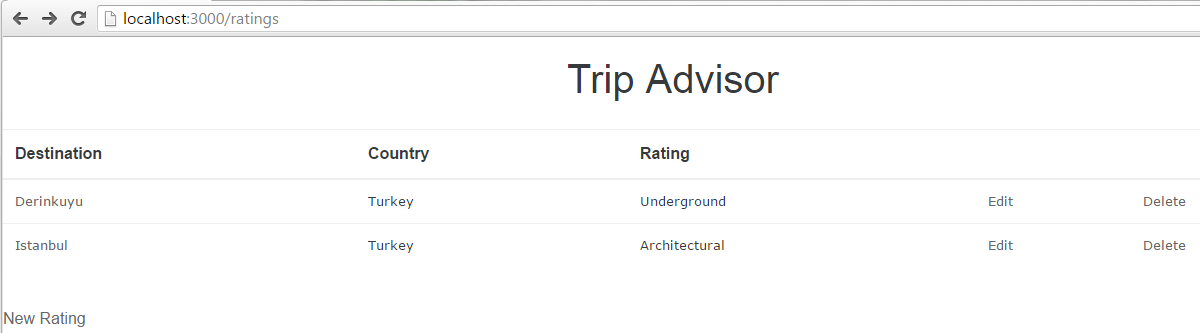
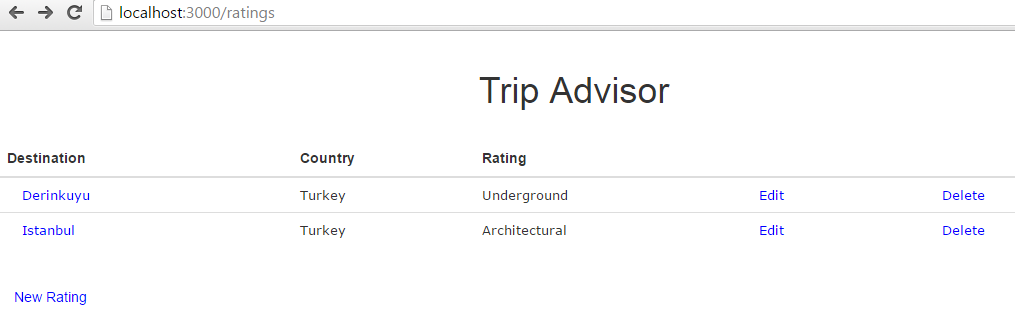
s

diff --git a/app/assets/stylesheets/application.css.sass b/app/assets/stylesheets/application.css.sass
@@ -1,0 +1,17 @@
+/*
+ * This is a manifest file that'll be compiled into application.css, which will include all the files
+ * listed below.
+ *
+ * Any CSS and SCSS file within this directory, lib/assets/stylesheets, vendor/assets/stylesheets,
+ * or vendor/assets/stylesheets of plugins, if any, can be referenced here using a relative path.
+ *
+ * You're free to add application-wide styles to this file and they'll appear at the bottom of the
+ * compiled file so the styles you add here take precedence over styles defined in any styles
+ * defined in the other CSS/SCSS files in this directory. It is generally better to create a new
+ * file per style scope.
+ *
+ *= require_tree .
+ *= require_self
+ */
+
+@import "bootstrap"

diff --git a/README.md b/README.md
@@ -18,6 +18,10 @@
 source 'http://rubygems.org'
 ...
 gem 'mysql2', '~> 0.3.18'
+
+gem 'bootstrap-sass', '~> 3.2.0'
+gem 'autoprefixer-rails'
+
 ```
 
 ### config\database.yml
@@ -159,6 +163,12 @@ class Rating < ActiveRecord::Base
 end
 ```
 
+### app\assets\stylesheets\application.css.sass
+
+```html
+@import "bootstrap"
+```
+
 ### app\views\layouts\application.html.erb
 
 ```html
@@ -169,19 +179,41 @@ end
   <%= stylesheet_link_tag    'application', media: 'all', 'data-turbolinks-track' => true %>
   <%= javascript_include_tag 'application', 'data-turbolinks-track' => true %>
   <%= csrf_meta_tags %>
-  <link href="https://cdnjs.cloudflare.com/ajax/libs/twitter-bootstrap/4.0.0-alpha/css/bootstrap.css" rel="stylesheet" ></link>
   <style>
     h1{
       text-align: center;
       padding:20px;
+    }
+    a{
+        margin:15px;
+        background-color:white;
+    }
+
+    /* unvisited link */
+    a:link {
+        color: green;
+        background-color:white;
+    }
+    /* visited link */
+    a:visited {
+        color: blue;
+        background-color:white;
+    }
+    /* mouse over link */
+    a:hover {
+        color: black;
+        background-color:gray;
+    }
+    /* selected link */
+    a:active {
+        color: gray;
+        background-color:gray;
     }
   </style>
 </head>
 <body>
 
 <%= yield %>
-<script src="https://cdnjs.cloudflare.com/ajax/libs/jquery/3.1.0/jquery.min.js"></script>
-<script src="https://cdnjs.cloudflare.com/ajax/libs/twitter-bootstrap/4.0.0-alpha/js/bootstrap.js"></script>
 </body>
 </html>
 ```
